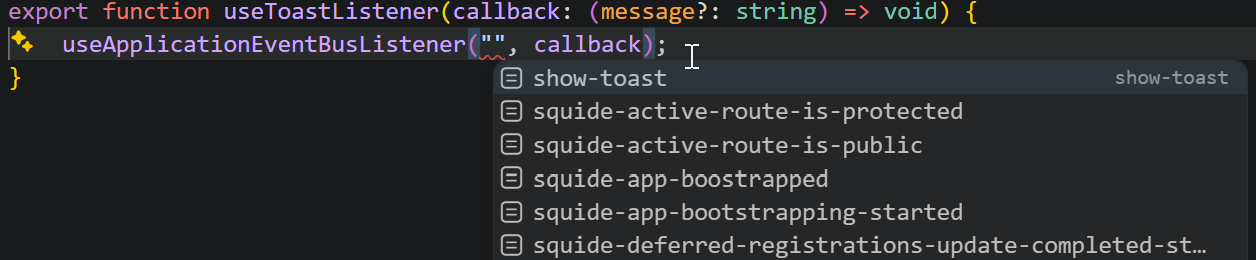
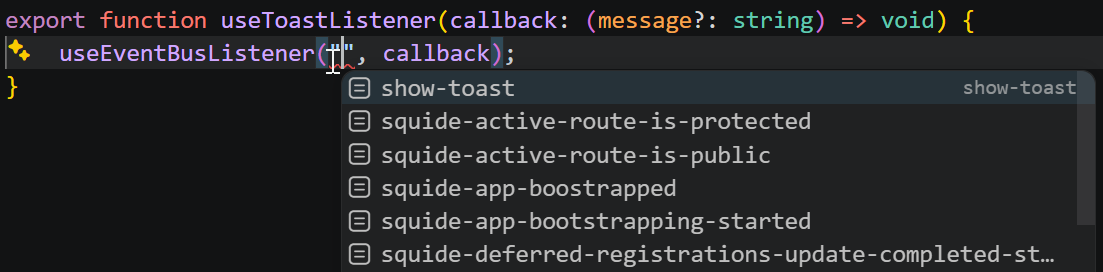
feat: refactor event bus integration to use typed EventBus and remove deprecated application event bus

diff --git a/samples/basic-webpack/shell/src/AuthenticatedLayout.tsx b/samples/basic-webpack/shell/src/AuthenticatedLayout.tsx
@@ -1,4 +1,5 @@
-import { useApplicationEventBusListener, useSessionManager } from "@basic-webpack/shared";
+import { useSessionManager } from "@basic-webpack/shared";
+import { useEventBusListener } from "@squide/firefly";
 import { isNavigationLink, useNavigationItems, useRenderedNavigationItems, type NavigationLinkRenderProps, type NavigationSectionRenderProps, type RenderItemFunction, type RenderSectionFunction } from "@squide/firefly";
 import { Suspense, useCallback, type MouseEvent, type ReactNode } from "react";
 import { Link, Outlet, useNavigate } from "react-router";
@@ -51,7 +52,7 @@ export function AuthenticatedLayout() {
         console.log("[sample] Message received from a module: ", data);
     }, []);
 
-    useApplicationEventBusListener("write-to-host", handleModulesMessage);
+    useEventBusListener("write-to-host", handleModulesMessage);
 
     const handleDisconnect = useCallback((event: MouseEvent<HTMLButtonElement>) => {
         event.preventDefault();

diff --git a/samples/basic/shell/src/AuthenticatedLayout.tsx b/samples/basic/shell/src/AuthenticatedLayout.tsx
@@ -1,4 +1,5 @@
-import { useApplicationEventBusListener, useSessionManager } from "@basic/shared";
+import { useSessionManager } from "@basic/shared";
+import { useEventBusListener } from "@squide/firefly";
 import { isNavigationLink, useNavigationItems, useRenderedNavigationItems, type NavigationLinkRenderProps, type NavigationSectionRenderProps, type RenderItemFunction, type RenderSectionFunction } from "@squide/firefly";
 import { Suspense, useCallback, type MouseEvent, type ReactNode } from "react";
 import { Link, Outlet, useNavigate } from "react-router";
@@ -51,7 +52,7 @@ export function AuthenticatedLayout() {
         console.log("[sample] Message received from a module: ", data);
     }, []);
 
-    useApplicationEventBusListener("write-to-host", handleModulesMessage);
+    useEventBusListener("write-to-host", handleModulesMessage);
 
     const handleDisconnect = useCallback((event: MouseEvent<HTMLButtonElement>) => {
         event.preventDefault();

diff --git a/samples/basic-webpack/shared/src/useToast.ts b/samples/basic-webpack/shared/src/useToast.ts
@@ -1,8 +1,8 @@
+import { useEventBusDispatcher, useEventBusListener } from "@squide/firefly";
 import { useCallback } from "react";
-import { useApplicationEventBusDispatcher, useApplicationEventBusListener } from "./eventBus.ts";
 
 export function useToast() {
-    const dispatch = useApplicationEventBusDispatcher();
+    const dispatch = useEventBusDispatcher();
 
     return useCallback((message: string) => {
         dispatch("show-toast", message);
@@ -10,5 +10,5 @@ export function useToast() {
 }
 
 export function useToastListener(callback: (message?: string) => void) {
-    useApplicationEventBusListener("show-toast", callback);
+    useEventBusListener("show-toast", callback);
 }

diff --git a/samples/basic/shared/src/useToast.ts b/samples/basic/shared/src/useToast.ts
@@ -1,8 +1,8 @@
+import { useEventBusDispatcher, useEventBusListener } from "@squide/firefly";
 import { useCallback } from "react";
-import { useApplicationEventBusDispatcher, useApplicationEventBusListener } from "./eventBus.ts";
 
 export function useToast() {
-    const dispatch = useApplicationEventBusDispatcher();
+    const dispatch = useEventBusDispatcher();
 
     return useCallback((message: string) => {
         dispatch("show-toast", message);
@@ -10,5 +10,5 @@ export function useToast() {
 }
 
 export function useToastListener(callback: (message?: string) => void) {
-    useApplicationEventBusListener("show-toast", callback);
+    useEventBusListener("show-toast", callback);
 }

diff --git a/samples/basic-webpack/local-module/src/MessagePage.tsx b/samples/basic-webpack/local-module/src/MessagePage.tsx
@@ -1,4 +1,5 @@
-import { useApplicationEventBusDispatcher, useToast } from "@basic-webpack/shared";
+import { useToast } from "@basic-webpack/shared";
+import { useEventBusDispatcher } from "@squide/firefly";
 import { useCallback, useState, type ChangeEvent } from "react";
 import { Link } from "react-router";
 
@@ -9,7 +10,7 @@ export function MessagePage() {
         setMessage(event.target.value);
     }, []);
 
-    const dispatch = useApplicationEventBusDispatcher();
+    const dispatch = useEventBusDispatcher();
     const showToast = useToast();
 
     const handleSendMessage = useCallback(() => {

diff --git a/samples/basic/local-module/src/MessagePage.tsx b/samples/basic/local-module/src/MessagePage.tsx
@@ -1,4 +1,5 @@
-import { useApplicationEventBusDispatcher, useToast } from "@basic/shared";
+import { useToast } from "@basic/shared";
+import { useEventBusDispatcher } from "@squide/firefly";
 import { useCallback, useState, type ChangeEvent } from "react";
 import { Link } from "react-router";
 
@@ -9,7 +10,7 @@ export function MessagePage() {
         setMessage(event.target.value);
     }, []);
 
-    const dispatch = useApplicationEventBusDispatcher();
+    const dispatch = useEventBusDispatcher();
     const showToast = useToast();
 
     const handleSendMessage = useCallback(() => {

diff --git a/samples/basic-webpack/shared/src/index.ts b/samples/basic-webpack/shared/src/index.ts
@@ -1,6 +1,6 @@
 export * from "./BackgroundColorContext.ts";
 export * from "./appContext.ts";
-export * from "./eventBus.ts";
+
 export * from "./isNetlify.ts";
 export * from "./layouts/registerLayouts.tsx";
 export * from "./session.ts";

diff --git a/samples/basic/shared/src/index.ts b/samples/basic/shared/src/index.ts
@@ -1,6 +1,6 @@
 export * from "./BackgroundColorContext.ts";
 export * from "./appContext.ts";
-export * from "./eventBus.ts";
+
 export * from "./isNetlify.ts";
 export * from "./layouts/registerLayouts.tsx";
 export * from "./session.ts";

diff --git a/docs/essentials/use-event-bus.md b/docs/essentials/use-event-bus.md
@@ -115,5 +115,5 @@ If any other project using those events must also reference the project's `event
 Once configured, the event bus hooks are fully typed:
 
 :::align-image-left
-![Auto-completion example](../static/event-bus-typings.png){width=837}
+![Auto-completion example](../static/event-bus-typings.png){width=735}
 :::
